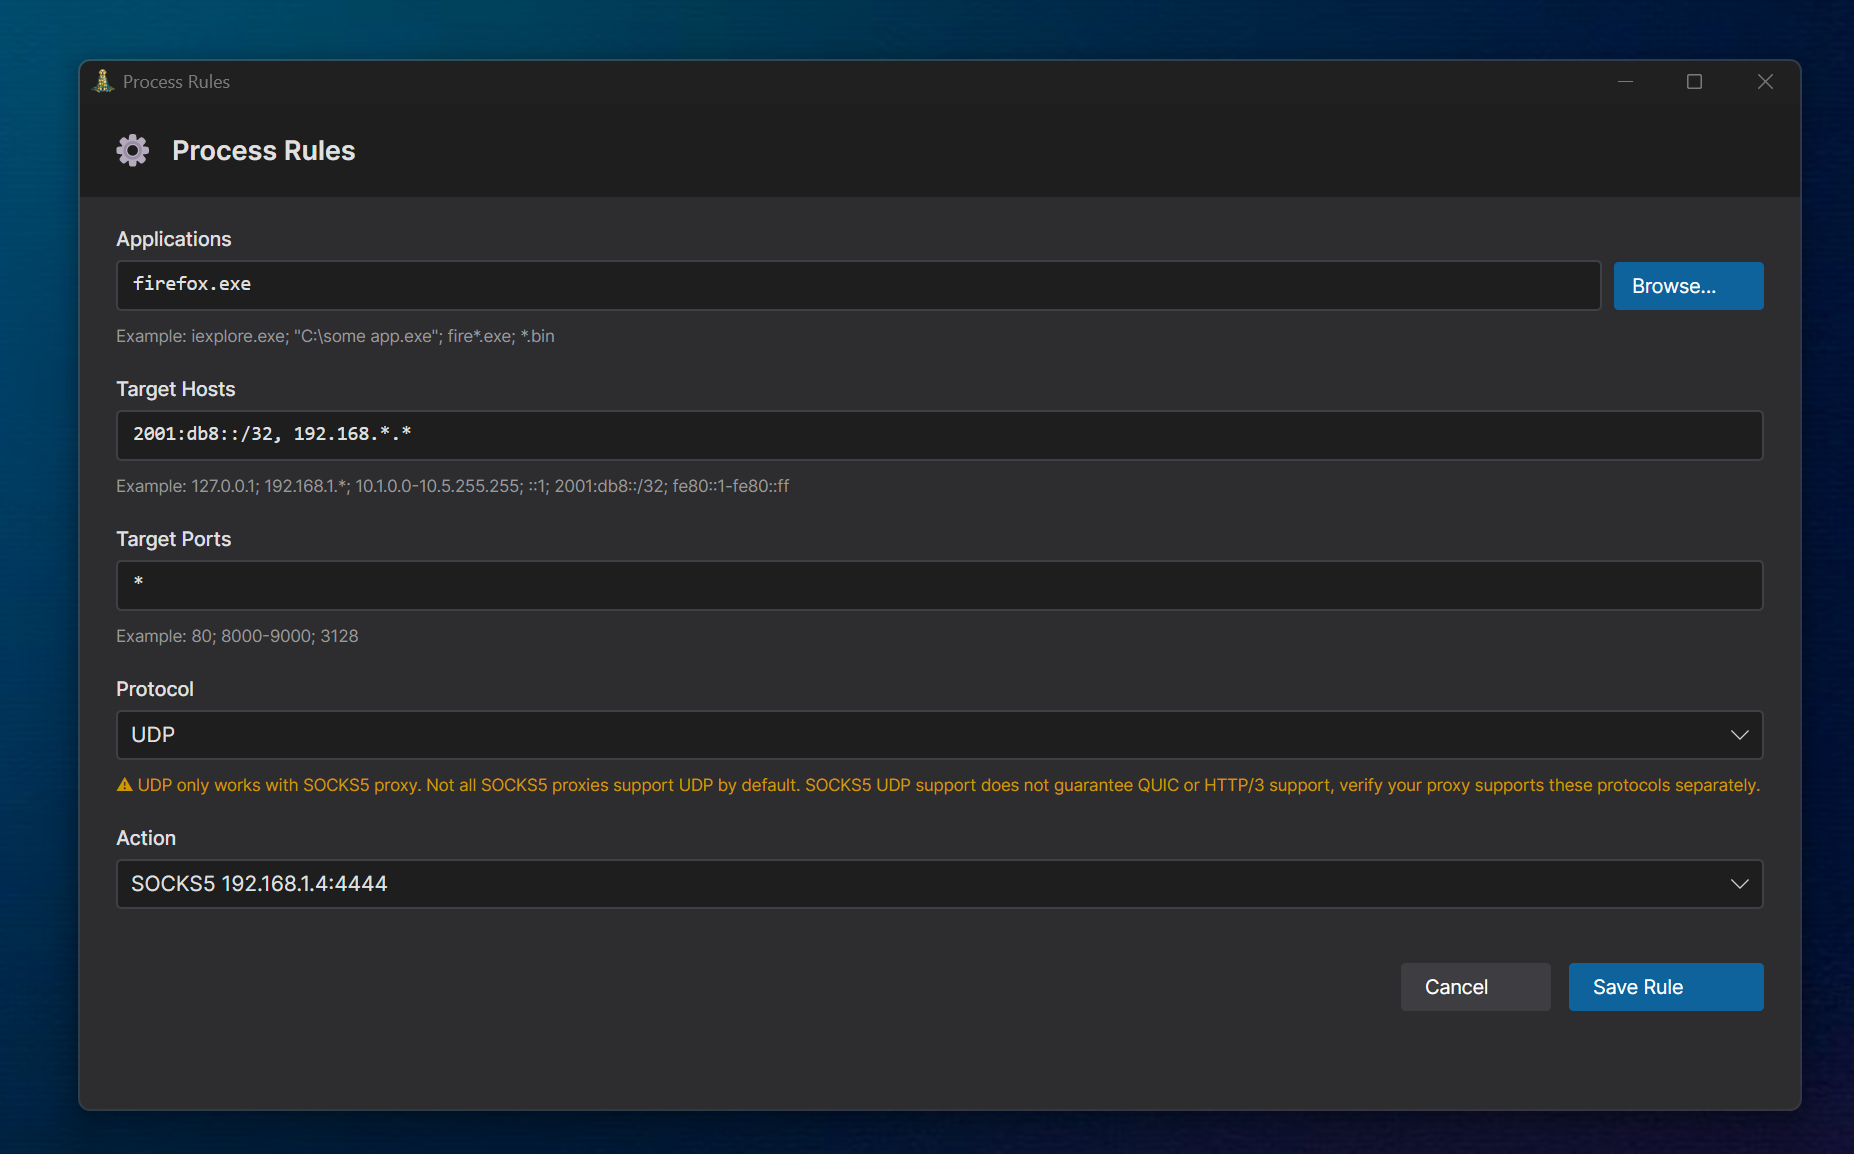
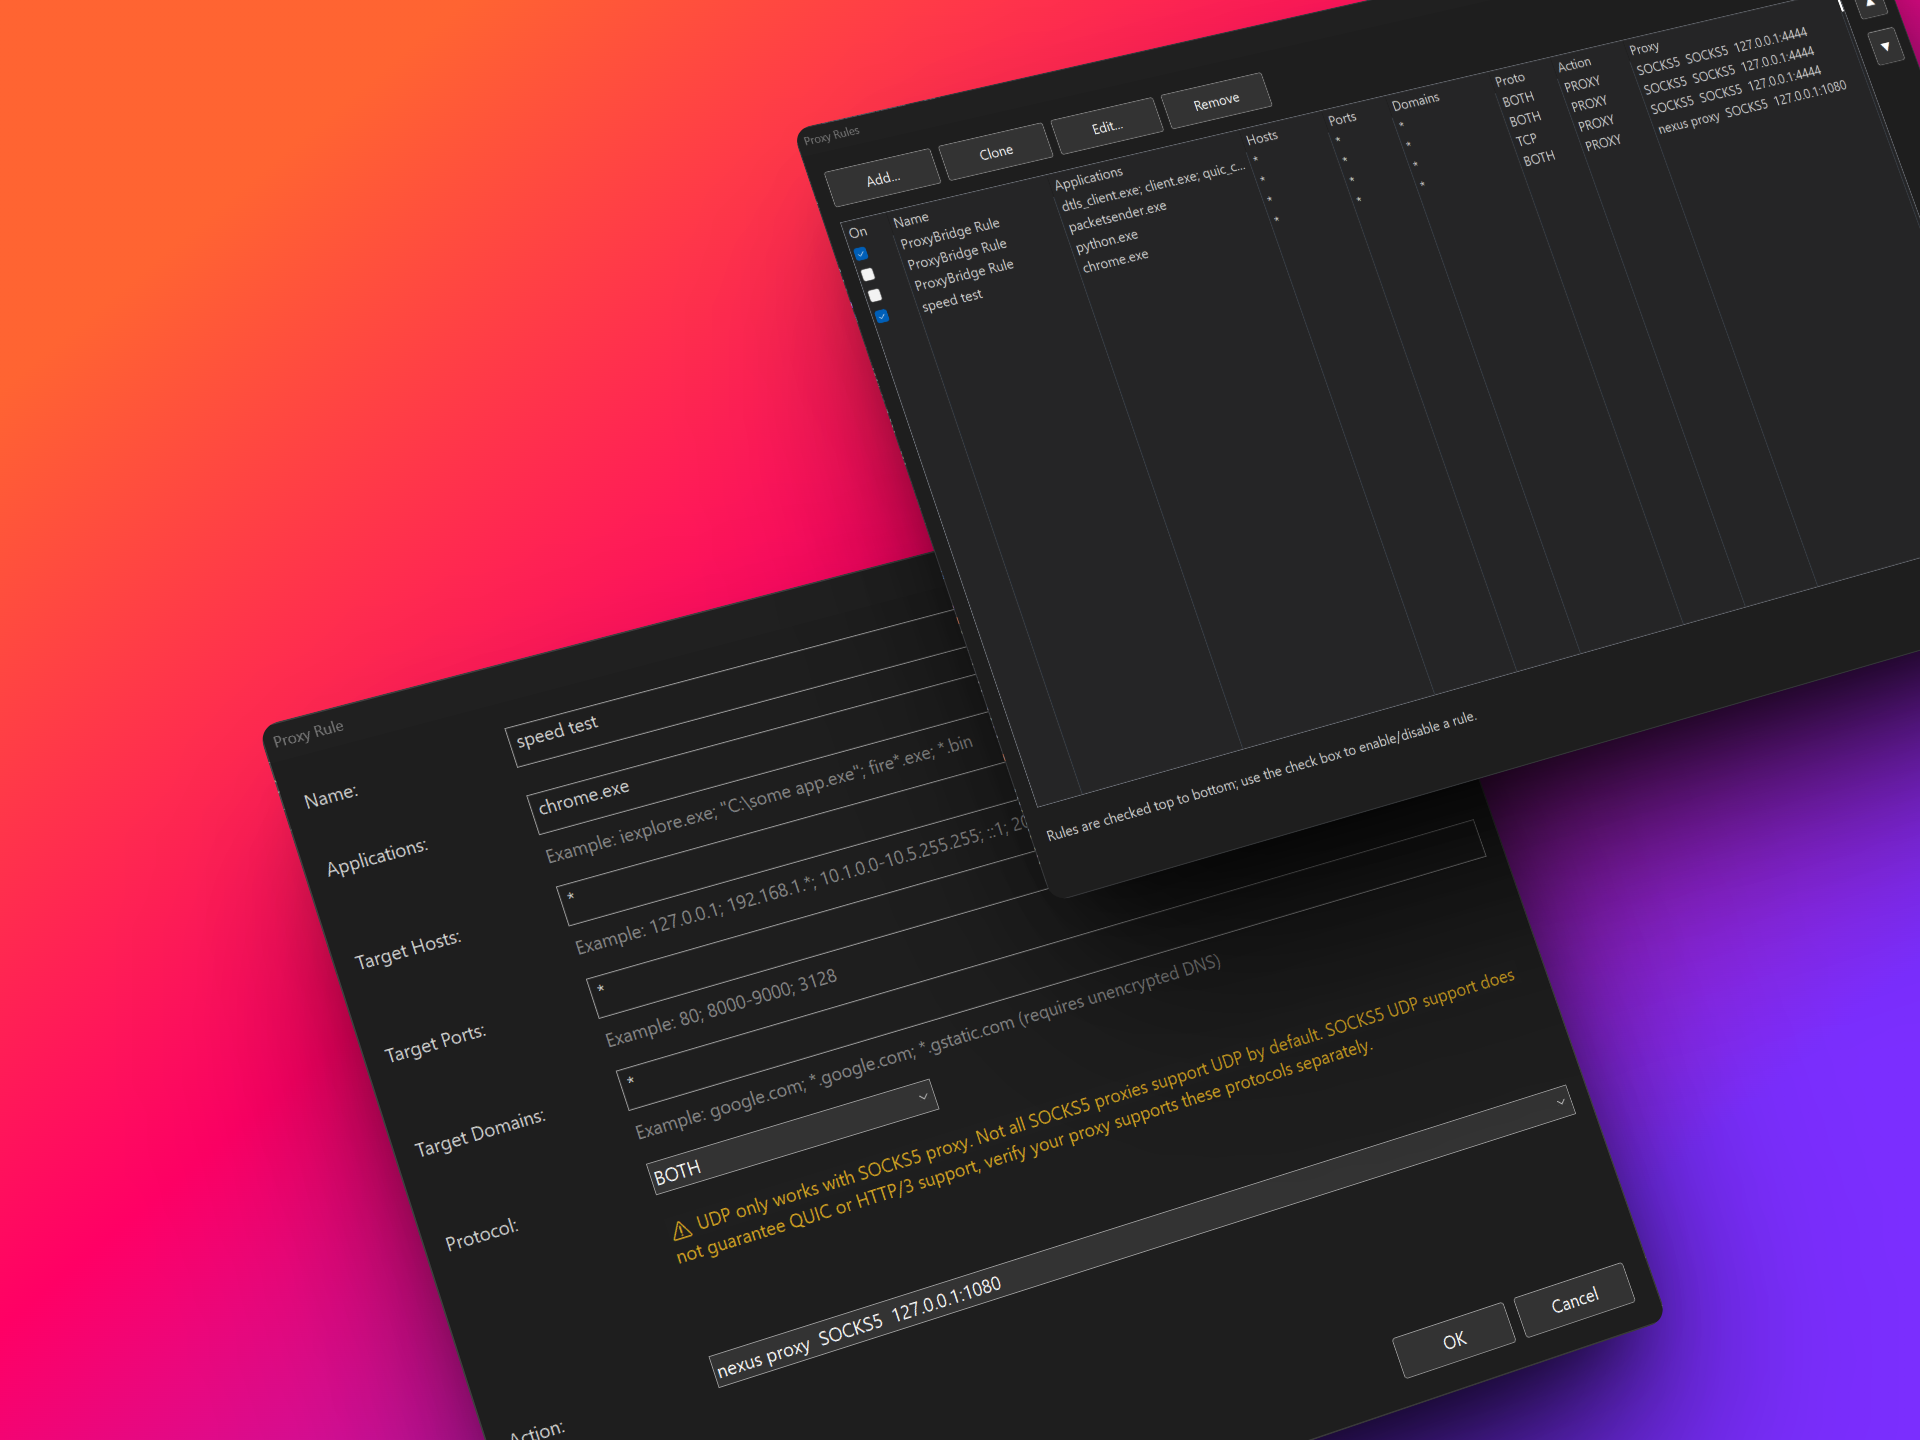
Update README and images: replace proxy rule image with Proxy Tester and add new image

diff --git a/README.md b/README.md
@@ -182,9 +182,9 @@ winget install InterceptSuite.ProxyBridge
 </p>
 
 <p align="center">
-  <img src="img/proxy-rule2.png" alt="Add/Edit Rule" width="800"/>
+  <img src="img/Proxy-Tester.png" alt="Proxy Tester" width="800"/>
   <br/>
-  <em>Add/Edit Proxy Rule</em>
+  <em>Proxy Tester</em>
 </p>
 
 #### CLI